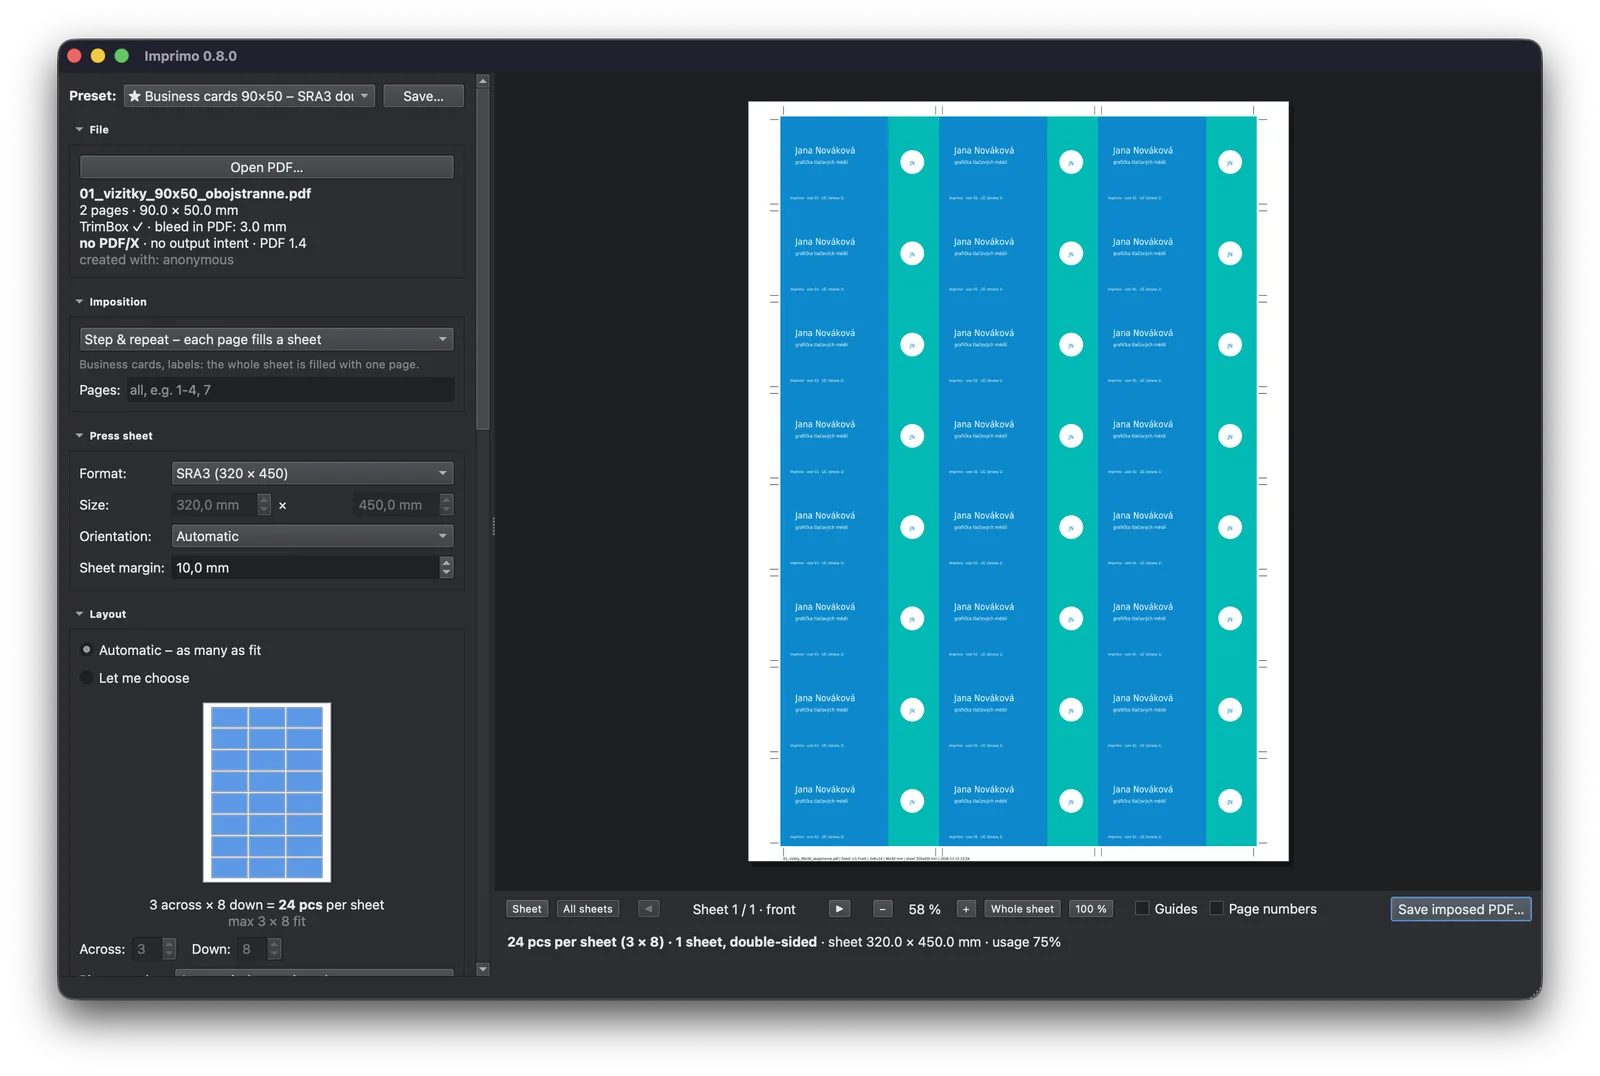
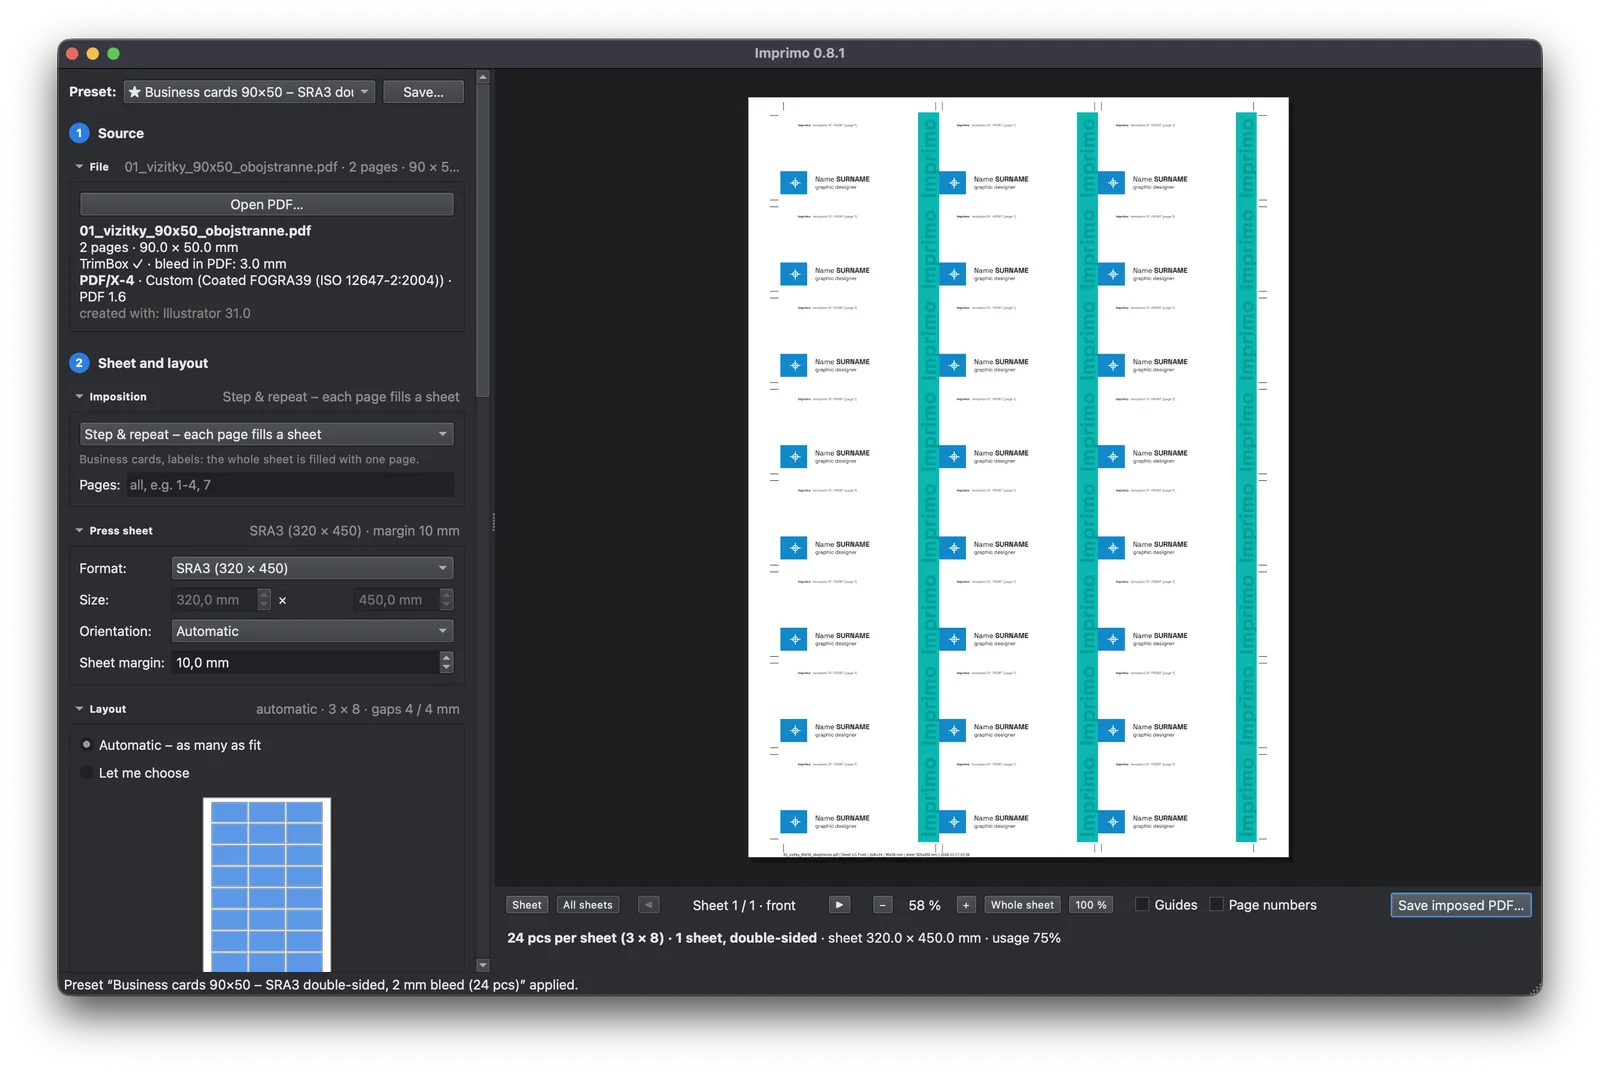
Website: screenshots of 0.8.1 from the packaged app
All website and press screenshots retaken with the Python of the packaged
Imprimo.app (window frame as users see it), showing the new side panel steps.

diff --git a/docs/index.html b/docs/index.html
@@ -251,8 +251,8 @@ footer a { color: var(--ink); }
     </div>
     <figure class="sheet" style="margin:0">
       <svg class="reg" viewBox="0 0 22 22" aria-hidden="true"><circle cx="11" cy="11" r="5" fill="none" stroke="currentColor" stroke-width="1"/><path d="M11 0v22M0 11h22" stroke="currentColor" stroke-width="1"/></svg>
-      <picture lang="sk"><source srcset="mac/hero_sk_dark.webp" media="(prefers-color-scheme: dark)"><img src="mac/hero_sk_light.webp" width="1600" height="1076" alt="Imprimo: 24 vizitiek 90 × 50 mm na hárku SRA3, ľavý panel s predvoľbou a nastaveniami"></picture>
-      <picture lang="en"><source srcset="mac/hero_en_dark.webp" media="(prefers-color-scheme: dark)"><img src="mac/hero_en_light.webp" width="1600" height="1076" alt="Imprimo: 24 business cards 90 × 50 mm on an SRA3 sheet, left panel with the preset and settings"></picture>
+      <picture lang="sk"><source srcset="mac/hero_sk_dark.webp" media="(prefers-color-scheme: dark)"><img src="mac/hero_sk_light.webp" width="1600" height="1072" alt="Imprimo: 24 vizitiek 90 × 50 mm na hárku SRA3, ľavý panel s predvoľbou a nastaveniami"></picture>
+      <picture lang="en"><source srcset="mac/hero_en_dark.webp" media="(prefers-color-scheme: dark)"><img src="mac/hero_en_light.webp" width="1600" height="1072" alt="Imprimo: 24 business cards 90 × 50 mm on an SRA3 sheet, left panel with the preset and settings"></picture>
       <figcaption class="slug">
         <span lang="sk">01_vizitky_90x50_obojstranne.pdf · Hárok 1/1 · 3 × 8 = 24 ks · SRA3 320 × 450 mm · spadávka 2 mm</span>
         <span lang="en">01_vizitky_90x50_obojstranne.pdf · Sheet 1/1 · 3 × 8 = 24 pcs · SRA3 320 × 450 mm · 2 mm bleed</span>
@@ -281,7 +281,7 @@ footer a { color: var(--ink); }
           <h3><span lang="sk">Brožúry so správnym poradím strán</span><span lang="en">Booklets with the right page order</span></h3>
           <p><span lang="sk">Imprimo zoradí strany tak, aby po zložení a zošití sedeli – 12 vedľa 1, na rube 2 vedľa 11. Posun (creep) vyrovná vytŕčajúce vnútorné hárky, PDF exportované po dvojstranách rozdelí samo.</span><span lang="en">Imprimo orders the pages so they read correctly after folding and stitching – 12 next to 1, 2 next to 11 on the back. Creep compensates for the inner sheets, PDFs exported as spreads are split automatically.</span></p>
         </div>
-        <figure class="sheet" style="margin:0"><picture lang="sk"><source srcset="mac/booklet_sk_dark.webp" media="(prefers-color-scheme: dark)"><img src="mac/booklet_sk_light.webp" width="1300" height="874" alt="Prehľad hárkov brožúry s číslami strán" loading="lazy"></picture><picture lang="en"><source srcset="mac/booklet_en_dark.webp" media="(prefers-color-scheme: dark)"><img src="mac/booklet_en_light.webp" width="1300" height="874" alt="All sheets of a booklet with page numbers" loading="lazy"></picture></figure>
+        <figure class="sheet" style="margin:0"><picture lang="sk"><source srcset="mac/booklet_sk_dark.webp" media="(prefers-color-scheme: dark)"><img src="mac/booklet_sk_light.webp" width="1300" height="871" alt="Prehľad hárkov brožúry s číslami strán" loading="lazy"></picture><picture lang="en"><source srcset="mac/booklet_en_dark.webp" media="(prefers-color-scheme: dark)"><img src="mac/booklet_en_light.webp" width="1300" height="871" alt="All sheets of a booklet with page numbers" loading="lazy"></picture></figure>
       </article>
 
       <article class="feature">
@@ -291,7 +291,7 @@ footer a { color: var(--ink); }
           <p><span lang="sk">Lepená väzba V2 alebo šitie niťou: Imprimo poskladá zložky po 4 až 32 stranách, pridá miesto na frézovanie, očíslované zlomy a znášacie značky na chrbte. Vzor na skladanie s veľkými číslami strán ukáže poradie ešte pred tlačou.</span><span lang="en">Perfect binding or thread sewing: Imprimo builds signatures of 4 to 32 pages with room for spine milling, numbered folds and collation marks on the spine. A fold dummy with big page numbers shows the order before printing.</span></p>
           <p><span lang="sk">Obálka s chrbtom: hrúbku chrbta vypočíta z počtu strán a papiera, pripraví šablónu pre grafika a hotovú obálku otvorí s bigmi na chrbte.</span><span lang="en">Cover with spine: the spine width from the page count and the paper, a template for the designer, and the finished cover opened with creases on the spine.</span></p>
         </div>
-        <figure class="sheet" style="margin:0"><picture lang="sk"><source srcset="mac/signatures_sk_dark.webp" media="(prefers-color-scheme: dark)"><img src="mac/signatures_sk_light.webp" width="1300" height="874" alt="Zborník A6 v zložkách po 8 stranách na hárkoch SRA3" loading="lazy"></picture><picture lang="en"><source srcset="mac/signatures_en_dark.webp" media="(prefers-color-scheme: dark)"><img src="mac/signatures_en_light.webp" width="1300" height="874" alt="An A6 book in 8-page signatures on SRA3 sheets" loading="lazy"></picture></figure>
+        <figure class="sheet" style="margin:0"><picture lang="sk"><source srcset="mac/signatures_sk_dark.webp" media="(prefers-color-scheme: dark)"><img src="mac/signatures_sk_light.webp" width="1300" height="871" alt="Zborník A6 v zložkách po 8 stranách na hárkoch SRA3" loading="lazy"></picture><picture lang="en"><source srcset="mac/signatures_en_dark.webp" media="(prefers-color-scheme: dark)"><img src="mac/signatures_en_light.webp" width="1300" height="871" alt="An A6 book in 8-page signatures on SRA3 sheets" loading="lazy"></picture></figure>
       </article>
 
       <article class="feature">
@@ -300,7 +300,7 @@ footer a { color: var(--ink); }
           <h3><span lang="sk">Bigovanie bez počítania</span><span lang="en">Creasing without the maths</span></h3>
           <p><span lang="sk">Pozvánka na polovicu, Z skladačka alebo zavinovacia DL so 100 / 100 / 97 mm – alebo bigy načítané z PDF vo farbe Crease. Imprimo ich prenesie na každú kópiu na hárku a na okraj dá značky pre ručnú bigovačku.</span><span lang="en">An invitation folded in half, a Z-fold or a DL roll fold with 100 / 100 / 97 mm panels – or creases read from a PDF in the Crease color. Imprimo carries them to every copy and puts marks for a manual creaser at the sheet edge.</span></p>
         </div>
-        <figure class="sheet" style="margin:0"><picture lang="sk"><source srcset="mac/crease_sk_dark.webp" media="(prefers-color-scheme: dark)"><img src="mac/crease_sk_light.webp" width="1300" height="874" alt="DL zavinovacia skladačka s bigmi na hárku SRA3" loading="lazy"></picture><picture lang="en"><source srcset="mac/crease_en_dark.webp" media="(prefers-color-scheme: dark)"><img src="mac/crease_en_light.webp" width="1300" height="874" alt="DL roll fold leaflet with creases on an SRA3 sheet" loading="lazy"></picture></figure>
+        <figure class="sheet" style="margin:0"><picture lang="sk"><source srcset="mac/crease_sk_dark.webp" media="(prefers-color-scheme: dark)"><img src="mac/crease_sk_light.webp" width="1300" height="871" alt="DL zavinovacia skladačka s bigmi na hárku SRA3" loading="lazy"></picture><picture lang="en"><source srcset="mac/crease_en_dark.webp" media="(prefers-color-scheme: dark)"><img src="mac/crease_en_light.webp" width="1300" height="871" alt="DL roll fold leaflet with creases on an SRA3 sheet" loading="lazy"></picture></figure>
       </article>
 
       <article class="feature">
@@ -309,7 +309,7 @@ footer a { color: var(--ink); }
           <h3><span lang="sk">Plagát z kancelárskej tlačiarne</span><span lang="en">A poster from an office printer</span></h3>
           <p><span lang="sk">Veľká strana sa rozdelí na diely A4 alebo A3 s prekryvom na lepenie. Diely A1, A2, B1… majú orezové rysky, značky na lepenie a malú mapku. Výslednú veľkosť A3 až A0 zvolíš jedným klikom.</span><span lang="en">A big page is split into A4 or A3 pieces with a glue overlap. Pieces A1, A2, B1… carry crop marks, glue marks and a small map. Pick the final size, A3 to A0, in one click.</span></p>
         </div>
-        <figure class="sheet" style="margin:0"><picture lang="sk"><source srcset="mac/poster_sk_dark.webp" media="(prefers-color-scheme: dark)"><img src="mac/poster_sk_light.webp" width="1300" height="874" alt="Plagát A2 poskladaný z dielov A4" loading="lazy"></picture><picture lang="en"><source srcset="mac/poster_en_dark.webp" media="(prefers-color-scheme: dark)"><img src="mac/poster_en_light.webp" width="1300" height="874" alt="A2 poster assembled from A4 pieces" loading="lazy"></picture></figure>
+        <figure class="sheet" style="margin:0"><picture lang="sk"><source srcset="mac/poster_sk_dark.webp" media="(prefers-color-scheme: dark)"><img src="mac/poster_sk_light.webp" width="1300" height="871" alt="Plagát A2 poskladaný z dielov A4" loading="lazy"></picture><picture lang="en"><source srcset="mac/poster_en_dark.webp" media="(prefers-color-scheme: dark)"><img src="mac/poster_en_light.webp" width="1300" height="871" alt="A2 poster assembled from A4 pieces" loading="lazy"></picture></figure>
       </article>
 
       <article class="feature">
@@ -318,7 +318,7 @@ footer a { color: var(--ink); }
           <h3><span lang="sk">Viac zákaziek na jednom hárku</span><span lang="en">Several jobs on one sheet</span></h3>
           <p><span lang="sk">Vizitky troch ľudí, každá v inom počte – Imprimo rozdelí miesta na hárku tak, aby bolo čo najmenej hárkov, a ukáže, kde je ktorá zákazka.</span><span lang="en">Business cards of three people, each in a different quantity – Imprimo splits the slots so the fewest sheets are needed and shows which job is where.</span></p>
         </div>
-        <figure class="sheet" style="margin:0"><picture lang="sk"><source srcset="mac/gang_sk_dark.webp" media="(prefers-color-scheme: dark)"><img src="mac/gang_sk_light.webp" width="1300" height="874" alt="Gang run: vizitky troch ľudí na hárku SRA3" loading="lazy"></picture><picture lang="en"><source srcset="mac/gang_en_dark.webp" media="(prefers-color-scheme: dark)"><img src="mac/gang_en_light.webp" width="1300" height="874" alt="Gang run: business cards of three people on an SRA3 sheet" loading="lazy"></picture></figure>
+        <figure class="sheet" style="margin:0"><picture lang="sk"><source srcset="mac/gang_sk_dark.webp" media="(prefers-color-scheme: dark)"><img src="mac/gang_sk_light.webp" width="1300" height="871" alt="Gang run: vizitky troch ľudí na hárku SRA3" loading="lazy"></picture><picture lang="en"><source srcset="mac/gang_en_dark.webp" media="(prefers-color-scheme: dark)"><img src="mac/gang_en_light.webp" width="1300" height="871" alt="Gang run: business cards of three people on an SRA3 sheet" loading="lazy"></picture></figure>
       </article>
 
       <div class="grid">
